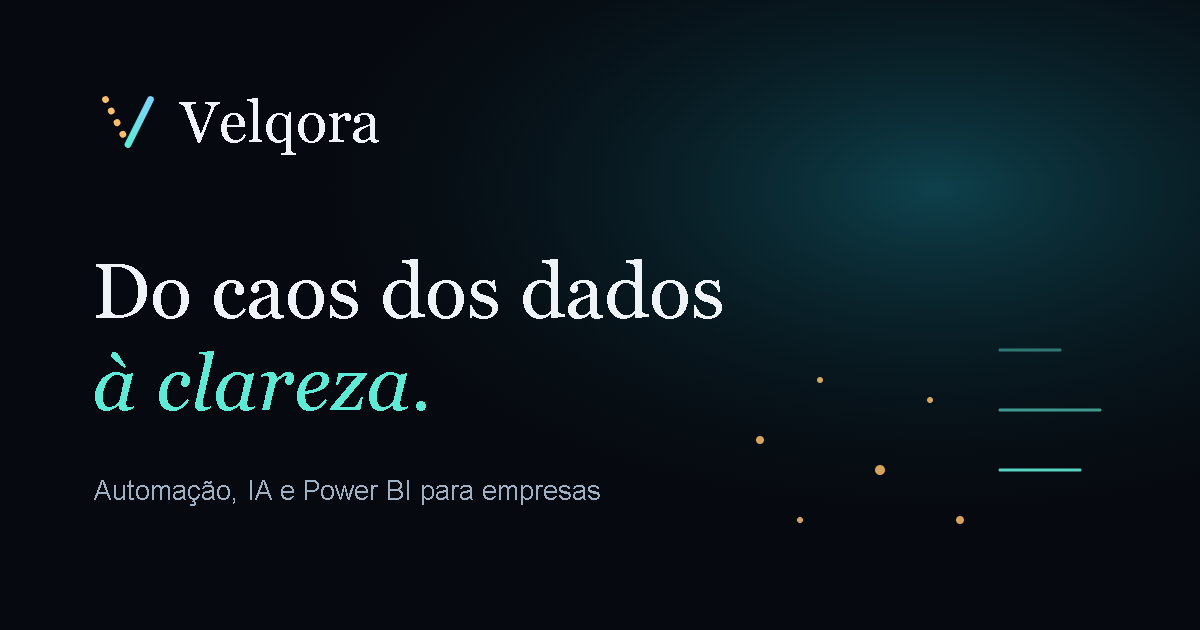
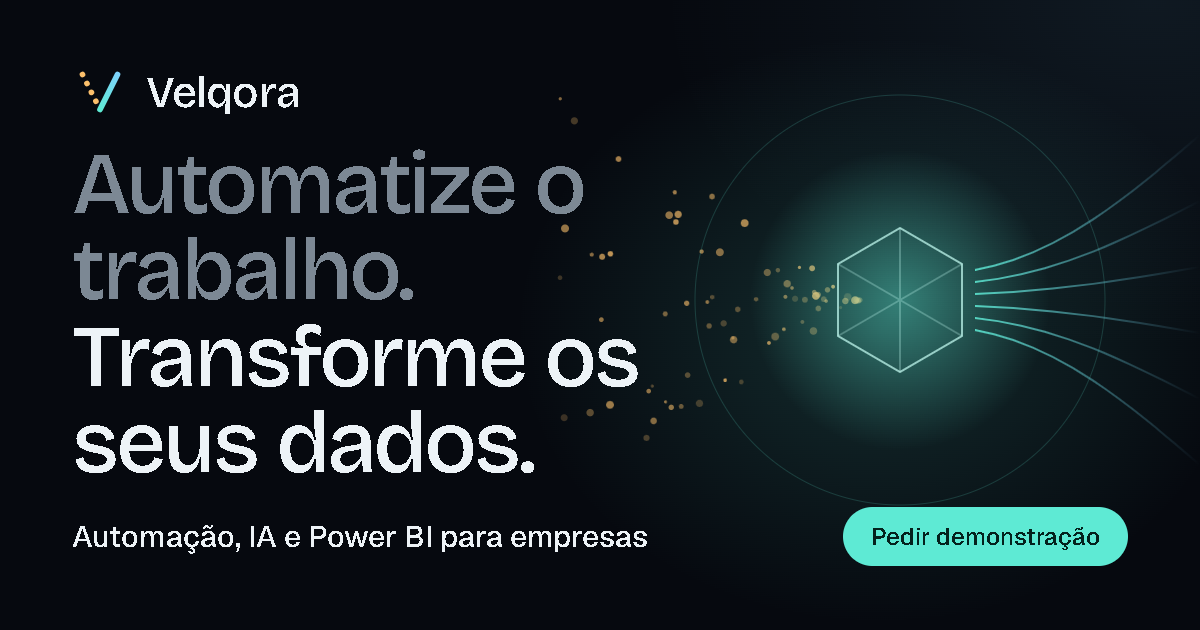
Regenerate og-image in the redesign style from an HTML template
Bricolage Grotesque headline matching the hero, rendered by scripts/render-og-image.mjs
(bun run og-image). Drops the stale og-image.svg source.

diff --git a/scripts/og-image.html b/scripts/og-image.html
@@ -1,0 +1,198 @@
+<!doctype html>
+<!--
+  Template da imagem de partilha (public/og-image.png, 1200×630).
+  Gerar com: bun run og-image   (scripts/render-og-image.mjs)
+  As fontes vêm de node_modules (as mesmas do site); as cores são os tokens de src/styles.css.
+-->
+<html lang="pt-PT">
+  <head>
+    <meta charset="utf-8" />
+    <style>
+      @font-face {
+        font-family: "Bricolage";
+        src: url("../node_modules/@fontsource-variable/bricolage-grotesque/files/bricolage-grotesque-latin-wght-normal.woff2")
+          format("woff2");
+        font-weight: 200 800;
+      }
+      @font-face {
+        font-family: "Geist";
+        src: url("../node_modules/@fontsource/geist/files/geist-latin-400-normal.woff2")
+          format("woff2");
+        font-weight: 400;
+      }
+      @font-face {
+        font-family: "Geist";
+        src: url("../node_modules/@fontsource/geist/files/geist-latin-500-normal.woff2")
+          format("woff2");
+        font-weight: 500;
+      }
+      :root {
+        --bg: #06090f;
+        --fg: oklch(0.96 0.008 240);
+        --muted: oklch(0.76 0.025 245);
+        --primary: #5eead4;
+        --sky: #7dd3fc;
+        --ember: #fbbf6b;
+      }
+      * {
+        margin: 0;
+        box-sizing: border-box;
+      }
+      html,
+      body {
+        width: 1200px;
+        height: 630px;
+        overflow: hidden;
+        background: var(--bg);
+      }
+      .card {
+        position: relative;
+        width: 1200px;
+        height: 630px;
+        padding: 64px 72px;
+        display: flex;
+        flex-direction: column;
+        justify-content: space-between;
+        color: var(--fg);
+        font-family: "Geist", sans-serif;
+        background:
+          radial-gradient(520px 420px at 880px 330px, rgb(94 234 212 / 0.16), transparent 70%),
+          radial-gradient(700px 500px at 1150px 0px, rgb(125 211 252 / 0.08), transparent 70%),
+          var(--bg);
+      }
+      .art {
+        position: absolute;
+        inset: 0;
+        pointer-events: none;
+      }
+      .brand {
+        position: relative;
+        display: flex;
+        align-items: center;
+        gap: 18px;
+        font-family: "Bricolage", sans-serif;
+        font-size: 44px;
+        font-weight: 500;
+        letter-spacing: -0.02em;
+      }
+      h1 {
+        position: relative;
+        font-family: "Bricolage", sans-serif;
+        font-weight: 500;
+        font-size: 88px;
+        line-height: 0.98;
+        letter-spacing: -0.035em;
+        max-width: 760px;
+      }
+      h1 .tone {
+        display: block;
+        color: var(--muted);
+        opacity: 0.75;
+      }
+      .foot {
+        position: relative;
+        display: flex;
+        align-items: center;
+        justify-content: space-between;
+      }
+      .sub {
+        font-size: 30px;
+        font-weight: 500;
+        color: var(--fg);
+      }
+      .pill {
+        font-size: 24px;
+        font-weight: 500;
+        color: #04221d;
+        background: var(--primary);
+        border-radius: 999px;
+        padding: 14px 28px;
+      }
+    </style>
+  </head>
+  <body>
+    <div class="card">
+      <!-- A mesma metáfora do fundo do site: pontos âmbar que convergem num cristal e saem em feixes. -->
+      <svg class="art" viewBox="0 0 1200 630" aria-hidden="true">
+        <defs>
+          <linearGradient id="lane" x1="0" x2="1">
+            <stop offset="0" stop-color="#5eead4" stop-opacity="0.85" />
+            <stop offset="1" stop-color="#7dd3fc" stop-opacity="0" />
+          </linearGradient>
+          <radialGradient id="core" cx="50%" cy="50%" r="50%">
+            <stop offset="0" stop-color="#5eead4" stop-opacity="0.45" />
+            <stop offset="1" stop-color="#5eead4" stop-opacity="0" />
+          </radialGradient>
+        </defs>
+        <g id="dots" fill="#fbbf6b"></g>
+        <circle cx="900" cy="300" r="150" fill="url(#core)" />
+        <circle cx="900" cy="300" r="205" fill="none" stroke="#5eead4" stroke-opacity="0.18" />
+        <g fill="none" stroke="#c8fff6" stroke-width="2">
+          <path stroke-opacity="0.7" d="M900 228 L962 264 L962 336 L900 372 L838 336 L838 264 Z" />
+          <path stroke-opacity="0.28" d="M900 228 L900 372 M838 264 L962 336 M962 264 L838 336" />
+        </g>
+        <g id="lanes" fill="none" stroke="url(#lane)" stroke-width="2"></g>
+      </svg>
+
+      <div class="brand">
+        <svg width="56" height="56" viewBox="0 0 64 64" aria-hidden="true">
+          <defs>
+            <linearGradient id="r" x1="32" y1="52" x2="53" y2="12" gradientUnits="userSpaceOnUse">
+              <stop stop-color="#5eead4" />
+              <stop offset="1" stop-color="#7dd3fc" />
+            </linearGradient>
+          </defs>
+          <path
+            d="M12 12 L32 52"
+            stroke="#fbbf6b"
+            stroke-width="6.5"
+            stroke-linecap="round"
+            stroke-dasharray="0.01 11.4"
+            fill="none"
+          />
+          <path
+            d="M32 52 L52 12"
+            stroke="url(#r)"
+            stroke-width="6.5"
+            stroke-linecap="round"
+            fill="none"
+          />
+        </svg>
+        Velqora
+      </div>
+
+      <h1><span class="tone">Automatize o trabalho.</span>Transforme os seus dados.</h1>
+
+      <div class="foot">
+        <p class="sub">Automação, IA e Power BI para empresas</p>
+        <p class="pill">Pedir demonstração</p>
+      </div>
+    </div>
+
+    <script>
+      // Pontos e feixes gerados com uma semente fixa: a imagem sai sempre igual.
+      let s = 11;
+      const r = () => ((s = (s * 16807) % 2147483647) - 1) / 2147483646;
+      const ns = "http://www.w3.org/2000/svg";
+      const dots = document.getElementById("dots");
+      for (let i = 0; i < 70; i++) {
+        const t = r();
+        const c = document.createElementNS(ns, "circle");
+        c.setAttribute("cx", 560 + t * 300);
+        c.setAttribute("cy", 300 + (r() - 0.5) * (1 - t) * 420);
+        c.setAttribute("r", 1.5 + r() * 2.5);
+        c.setAttribute("opacity", 0.2 + r() * 0.55);
+        dots.appendChild(c);
+      }
+      const lanes = document.getElementById("lanes");
+      for (const dy of [-75, -45, -15, 15, 45, 75]) {
+        const p = document.createElementNS(ns, "path");
+        p.setAttribute(
+          "d",
+          `M975 ${300 + dy * 0.4} C 1060 ${300 + dy * 0.6}, 1130 ${300 + dy * 1.4}, 1200 ${300 + dy * 2.2}`,
+        );
+        lanes.appendChild(p);
+      }
+    </script>
+  </body>
+</html>

diff --git a/src/routes/index.tsx b/src/routes/index.tsx
@@ -62,7 +62,10 @@ export const Route = createFileRoute("/")({
       { property: "og:image:type", content: "image/png" },
       { property: "og:image:width", content: "1200" },
       { property: "og:image:height", content: "630" },
-      { property: "og:image:alt", content: "Velqora — do caos dos dados à clareza." },
+      {
+        property: "og:image:alt",
+        content: "Velqora — Automatize o trabalho. Transforme os seus dados.",
+      },
       { property: "og:locale", content: "pt_PT" },
       { name: "twitter:card", content: "summary_large_image" },
       { name: "twitter:title", content: TITLE },
